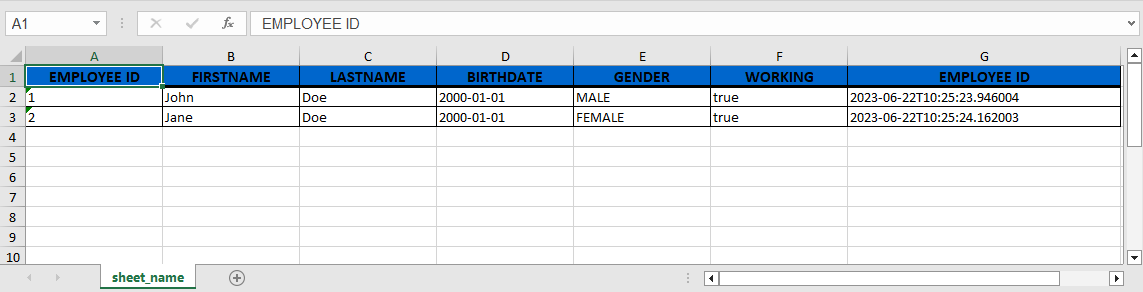
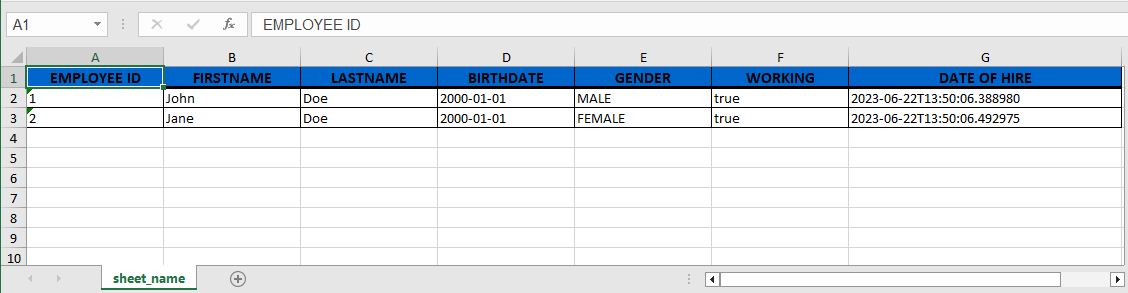
Header text updated

Changed region(s): [[0.0, 0.0, 1.0, 0.9863], [0.0931, 0.9247, 0.2172, 0.9863], [0.5895, 0.9247, 0.6516, 0.9863]]

diff --git a/src/main/java/com/abtech/aboutexcel/ExportResource.java b/src/main/java/com/abtech/aboutexcel/ExportResource.java
@@ -33,7 +33,7 @@ public class ExportResource implements Serializable {
     @ExportToExcel(index = 5,headerText = "WORKING", width = 5000)
     private boolean isActive;
 
-    @ExportToExcel(index = 6,headerText = "EMPLOYEE ID", width = 10000)
+    @ExportToExcel(index = 6,headerText = "DATE OF HIRE", width = 10000)
     private LocalDateTime createdAt;
 
 }
